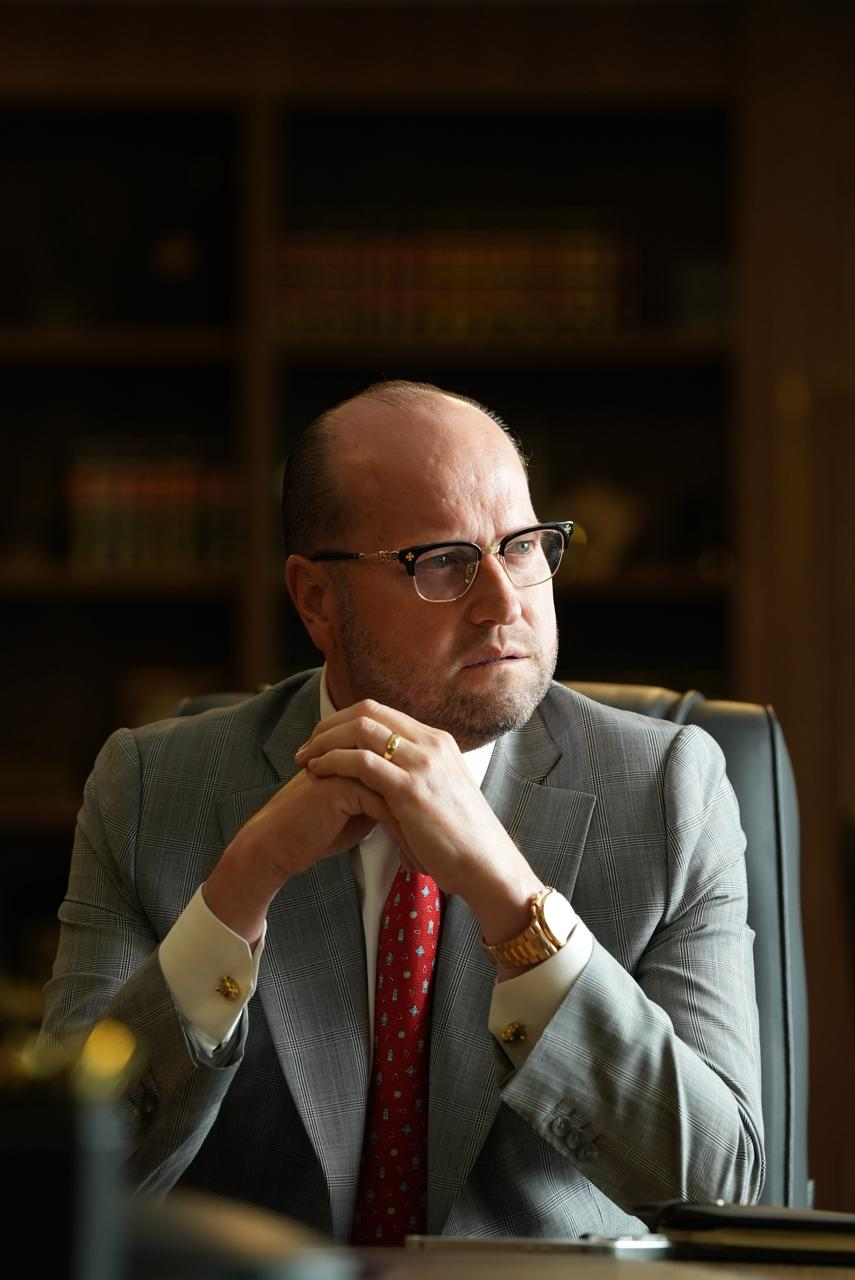
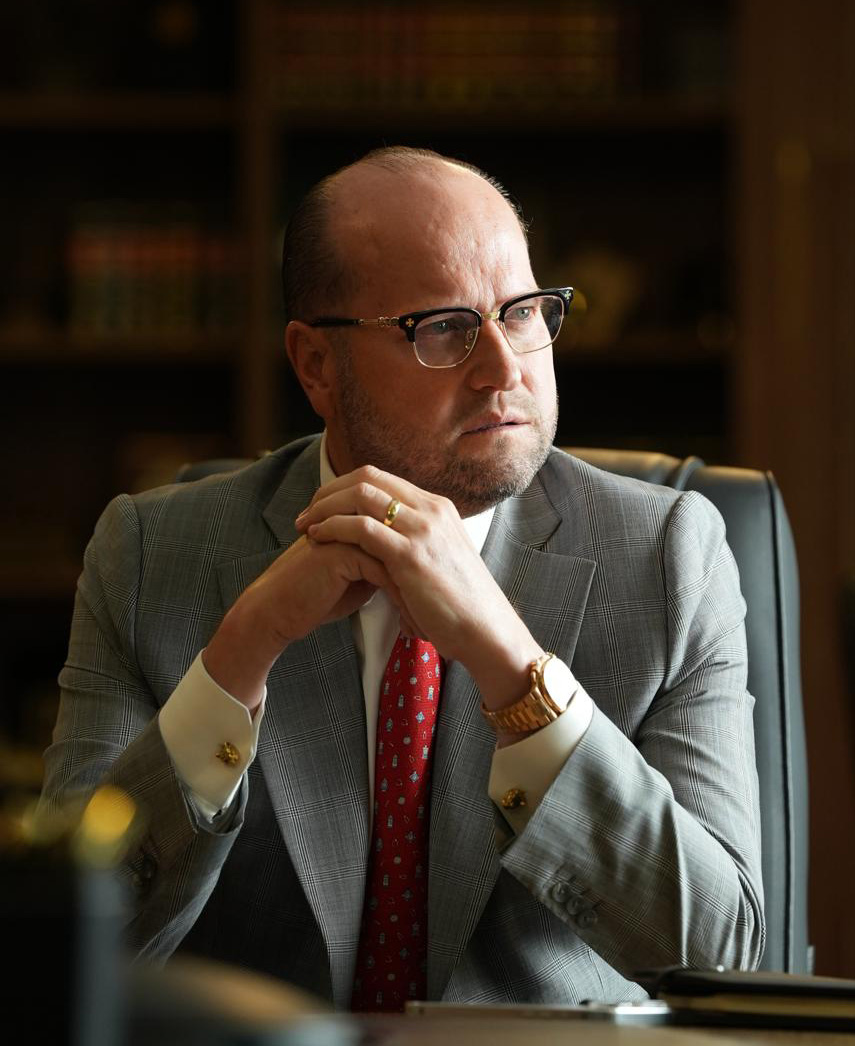
att

diff --git a/eventos/fam-talks/index.html b/eventos/fam-talks/index.html
@@ -50,7 +50,7 @@
             </p>
         </section>
 
-        <section>
+        <section class="palestrante">
             <div class="foto-palestrante">
                 <img src="images/palestrante1.jpeg" alt="Foto de Dr. Nelson Wilians">
             </div>

diff --git a/eventos/fam-talks/style.css b/eventos/fam-talks/style.css
@@ -95,7 +95,13 @@ main {
 }
 
 .foto-palestrante img {
-    max-width: 200px;
+    max-width: 300px;
     width: 100%;
     border-radius: 5px;
+}
+
+.palestrante {
+    display: flex;
+    gap: 20px;
+    
 }
